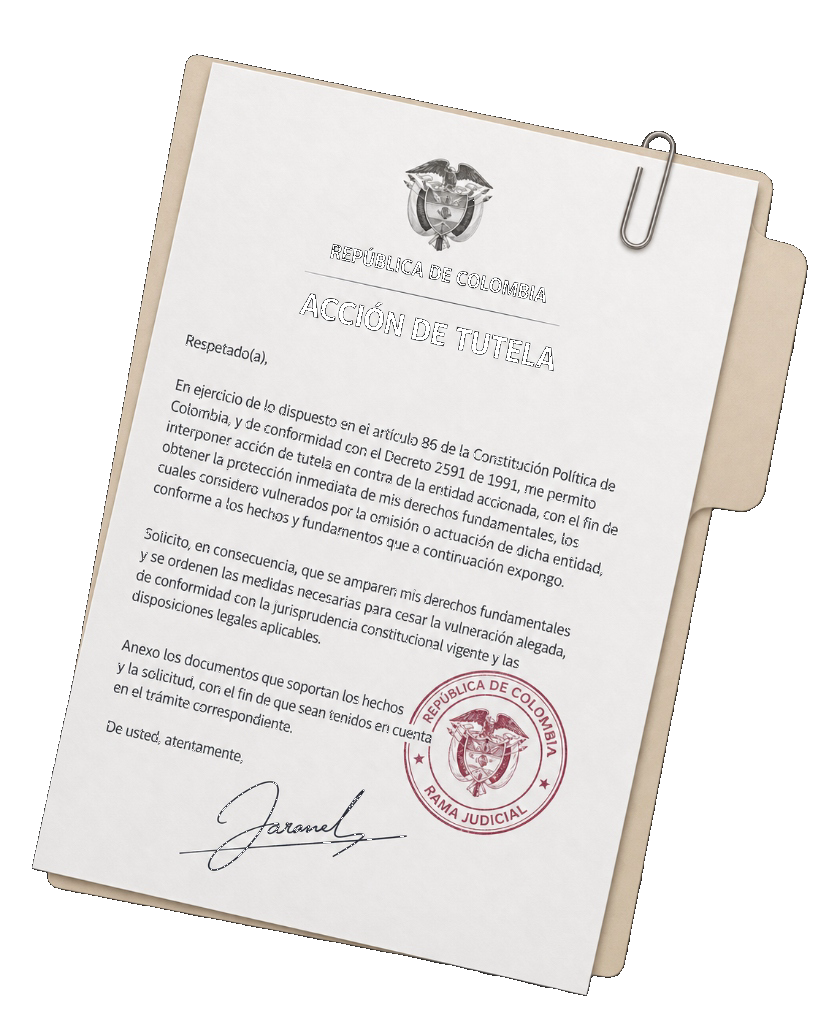
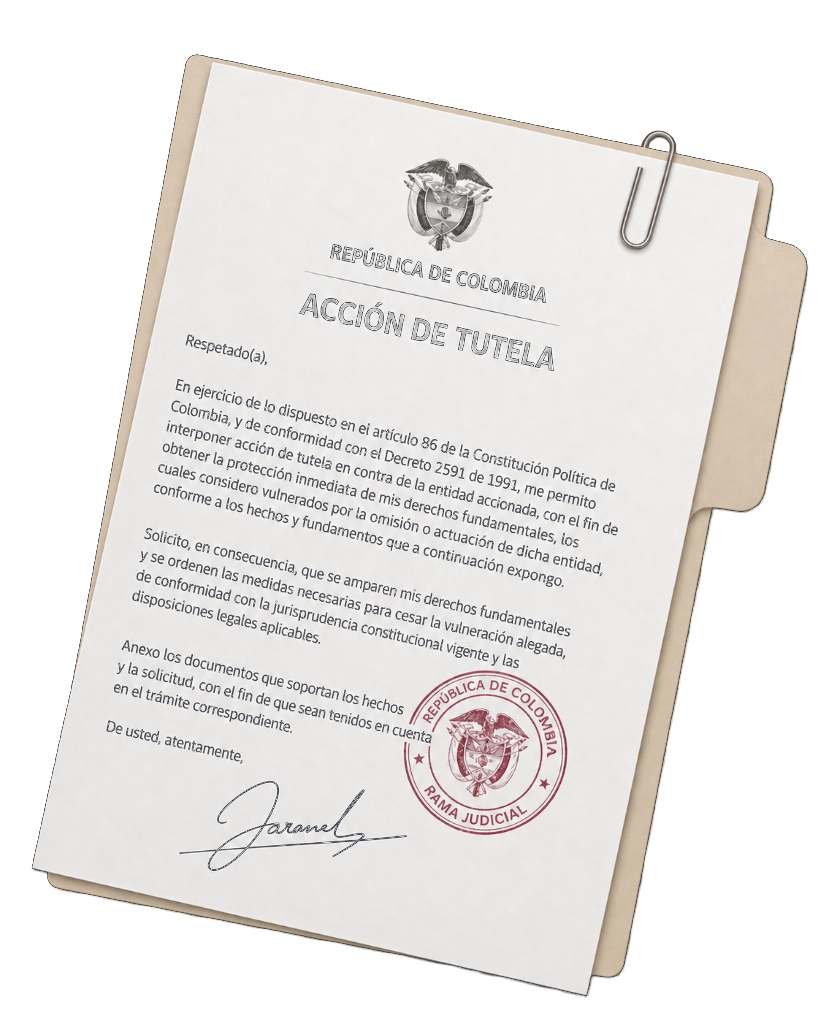
feat(ui): pristine smooth anti-aliased PNG hero rendering and sync main and master branches for Railway auto-deploy

Changed region(s): [[0.3663, 0.25, 0.6716, 0.375], [0.641, 0.2812, 0.6716, 0.3125], [0.3968, 0.2188, 0.4274, 0.25]]

diff --git a/app/globals.css b/app/globals.css
@@ -1,5 +1,5 @@
 :root{--ink:#2c2526;--muted:#736968;--purple:#6b2d3e;--purple-dark:#52222f;--lavender:#f1e8dc;--lavender-soft:#f7f2ea;--line:#e6ded0;--paper:#fbf8f3;--white:#fff;--peach:#f3ebe0;--danger:#9d374c;--radius:20px;--shadow:0 16px 50px rgba(44,37,38,0.07)}
-*{box-sizing:border-box}html{scroll-behavior:smooth;scroll-padding-top:28px}body{margin:0;background:var(--paper);color:var(--ink);font-family:Inter,ui-sans-serif,-apple-system,BlinkMacSystemFont,'Segoe UI',sans-serif;font-size:15px;line-height:1.6}button,input,select,textarea{font:inherit}button,a,input,select,textarea{-webkit-tap-highlight-color:transparent}button{cursor:pointer}button:disabled{cursor:not-allowed;opacity:.5}a{color:inherit;text-decoration:none}button{color:inherit}h1,h2,h3,h4,p{margin-top:0}h1,h2,h3{line-height:1.17;letter-spacing:-.035em}h1{font-size:48px}h2{font-size:34px}h3{font-size:21px}h4{margin-bottom:7px;letter-spacing:-.01em}p{color:var(--muted)}svg{flex-shrink:0;stroke-width:1.65}::selection{background:#f1d6dd}button:focus-visible,a:focus-visible,input:focus-visible,select:focus-visible,textarea:focus-visible,summary:focus-visible{outline:3px solid #6b2d3e;outline-offset:4px}button{transition:background .18s,transform .18s,box-shadow .18s}button:active:not(:disabled){transform:translateY(1px)}.wrap{width:min(1180px,calc(100% - 80px));margin-inline:auto}.button{display:inline-flex;align-items:center;justify-content:center;gap:11px;min-height:50px;padding:13px 25px;border:1px solid transparent;border-radius:25px;background:var(--purple);color:white;font-weight:600;font-size:14px;letter-spacing:.005em;box-shadow:0 4px 14px rgba(107,45,62,0.18)}.button:hover:not(:disabled){background:var(--purple-dark);box-shadow:0 7px 22px rgba(107,45,62,0.28)}.button.small{min-height:40px;padding:9px 18px;font-size:13px;border-radius:20px}.button.outline{background:transparent;border-color:#dcd1c0;color:var(--ink);box-shadow:none}.button.outline:hover:not(:disabled){background:var(--lavender);border-color:var(--line)}.button.light{background:white;color:var(--purple-dark)}.text-button,.quiet-link,.back-button{border:0;background:none;display:inline-flex;align-items:center;gap:8px;padding:0;color:var(--ink);font-size:13px;font-weight:600}.text-button:hover,.quiet-link:hover{text-decoration:underline}.icon-button{display:inline-flex;align-items:center;justify-content:center;width:36px;height:36px;padding:0;border:0;background:transparent;border-radius:9px}.icon-button:hover{background:var(--lavender)}.brand{font-size:28px;letter-spacing:-1.5px;font-weight:750;white-space:nowrap;color:var(--ink)}.brand>span:not(.brand-dot){font-weight:430}.brand-dot{color:var(--purple);font-weight:800}.public-header{height:104px;display:flex;align-items:center;justify-content:space-between}.public-header nav{display:flex;align-items:center;gap:35px;font-size:13px}.public-header nav a:hover{color:var(--purple)}.public-header nav .text-button{color:var(--ink);font-weight:400}.hero{display:grid;grid-template-columns:1fr 1.05fr;align-items:center;min-height:640px;gap:40px;padding-top:20px;padding-bottom:50px}.eyebrow{display:flex;align-items:center;gap:9px;font-size:12px;letter-spacing:.02em;color:var(--muted);margin-bottom:27px}.tiny-dot{display:inline-block;width:6px;height:6px;border-radius:50%;background:var(--purple);flex-shrink:0}.hero h1{font-size:clamp(46px,4.8vw,68px);font-weight:700;letter-spacing:-.045em;line-height:1.08;margin-bottom:25px;color:var(--ink)}.hero h1 em{font-family:Georgia,'Times New Roman',serif;font-weight:400;font-style:italic;color:var(--purple);letter-spacing:-.04em}.hero-description{font-size:17px;line-height:1.75;max-width:440px;color:var(--muted)}.hero-actions{display:flex;gap:25px;align-items:center;margin-top:31px}.quiet-link{color:var(--ink);font-size:13px;font-weight:600}.quiet-link span{font-size:16px;margin-left:4px}.hero-note{display:flex;gap:8px;align-items:center;font-size:11px;color:var(--muted);margin-top:26px}.hero-visual{position:relative;isolation:isolate;min-height:540px;width:100%;display:flex;align-items:center;justify-content:center;margin-top:10px}.courthouse-bg{position:absolute;right:-50px;top:-40px;width:580px;height:auto;opacity:.42;pointer-events:none;z-index:0}.hero-img{max-width:100%;height:auto;display:block}.layer-expediente{position:absolute;left:-20px;top:15px;width:370px;border-radius:22px;transform:rotate(-7.5deg);box-shadow:0 14px 40px rgba(60,45,35,0.12);z-index:1}.layer-tutela{position:absolute;right:-25px;top:25px;width:355px;border-radius:18px;transform:rotate(7.5deg);box-shadow:0 16px 45px rgba(50,40,30,0.11);z-index:2}.layer-tu-caso-wrapper{position:relative;width:380px;z-index:4;transform:rotate(-1.5deg);filter:drop-shadow(0 25px 50px rgba(50,30,40,0.16));animation:card-enter .75s both}.layer-tu-caso{width:100%;height:auto;border-radius:24px}.tu-caso-overlay{position:absolute;left:24px;right:24px;top:92px;bottom:24px;display:flex;flex-direction:column;pointer-events:none}.tu-caso-overlay h2{font-size:19px;line-height:1.25;font-weight:700;color:var(--ink);margin-bottom:4px}.tu-caso-overlay p{font-size:11px;color:var(--muted);margin-bottom:14px}.folder-underlay{position:absolute;left:-15px;top:20px;width:370px;height:445px;background:#eadecb;border:1px solid #dacbb6;border-radius:26px;transform:rotate(-8deg);box-shadow:0 14px 40px rgba(60,45,35,0.08);z-index:1;padding:24px}.folder-underlay .tab-top{position:absolute;top:-22px;left:65px;width:125px;height:24px;background:#eadecb;border-radius:14px 14px 0 0;border:1px solid #dacbb6;border-bottom:none}.folder-underlay .tab-right{position:absolute;right:-18px;top:140px;width:20px;height:110px;background:#eadecb;border-radius:0 14px 14px 0;border:1px solid #dacbb6;border-left:none}.folder-underlay .stamp-vertical{position:absolute;left:22px;top:75px;writing-mode:vertical-rl;transform:rotate(180deg);font-size:15px;font-weight:800;letter-spacing:.25em;color:#8a3748;border:2.5px solid #8a3748;padding:14px 5px;border-radius:4px;opacity:.88}.folder-underlay .stamp-handle-pos{position:absolute;left:-10px;bottom:135px;transform:rotate(-12deg);opacity:.9;filter:drop-shadow(0 4px 10px rgba(0,0,0,0.15))}.folder-underlay .scale-stamp-pos{position:absolute;left:40px;bottom:35px;opacity:.38;color:#6b2d3e}.folder-paperclip{position:absolute;left:135px;top:-14px;z-index:3;transform:rotate(-12deg);filter:drop-shadow(0 2px 4px rgba(0,0,0,0.15))}.tutela-sheet{position:absolute;right:-20px;top:30px;width:355px;height:435px;background:#ffffff;border:1px solid #e3d8ca;border-radius:18px;transform:rotate(8deg);box-shadow:0 16px 45px rgba(50,40,30,0.07);z-index:2;padding:26px 24px;display:flex;flex-direction:column}.tutela-paperclip{position:absolute;right:32px;top:-14px;z-index:3;transform:rotate(22deg);filter:drop-shadow(0 2px 4px rgba(0,0,0,0.15))}.tutela-header{text-align:center;border-bottom:1px solid #ede4d7;padding-bottom:10px;margin-bottom:10px}.tutela-escudo{width:26px;height:26px;margin:0 auto 4px;opacity:.85}.tutela-header small{display:block;font-size:8.5px;font-weight:800;letter-spacing:.15em;color:var(--ink)}.tutela-header b{display:block;font-size:13px;font-weight:800;letter-spacing:.05em;color:var(--ink);margin-top:2px}.tutela-body{font-size:8.5px;color:#7e7473;line-height:1.55;flex:1;overflow:hidden}.tutela-seal{position:absolute;right:25px;bottom:55px;width:80px;height:80px;border:2px dashed #8c3547;border-radius:50%;display:flex;flex-direction:column;align-items:center;justify-content:center;color:#8c3547;font-size:6.5px;font-weight:800;text-align:center;padding:4px;transform:rotate(-14deg);opacity:.85;background:rgba(255,255,255,0.85)}.bottom-paperclip{position:absolute;right:20px;bottom:-12px;z-index:3;transform:rotate(-45deg);filter:drop-shadow(0 2px 4px rgba(0,0,0,0.15))}.signature-line{border-top:1px solid #736968;width:98px;font-size:9.5px;font-family:Georgia,serif;font-style:italic;color:var(--ink);padding-top:2px;margin-top:auto}.dossier-card{background:white;width:375px;padding:24px;border-radius:24px;box-shadow:0 30px 75px rgba(50,30,40,0.13);border:1px solid #ebdcc9;transform:rotate(-1.5deg);position:relative;z-index:4;animation:card-enter .75s both}.card-tab{position:absolute;top:-23px;left:32px;background:#efe6d8;border:1px solid #ebdcc9;border-bottom:none;border-radius:12px 12px 0 0;padding:4px 20px;font-size:12px;font-weight:600;color:var(--purple)}.card-top-row{display:flex;align-items:center;justify-content:space-between;margin-bottom:14px}.card-folder-badge{width:42px;height:42px;border-radius:12px;background:#f3eae3;display:flex;align-items:center;justify-content:center;color:var(--purple);border:1px solid #e7dcce;margin-bottom:14px}.badge-progress{background:#efe7db;color:var(--ink);font-size:10px;font-weight:500;padding:4px 12px;border-radius:20px;border:1px solid #e2d6c4}.dossier-card .overline{font-size:9px;font-weight:700;letter-spacing:.12em;color:var(--purple);margin-bottom:6px;display:block}.dossier-card h2{font-size:21px;line-height:1.25;font-weight:700;color:var(--ink);margin-bottom:6px}.dossier-card>p{font-size:12px;color:var(--muted);margin-bottom:18px}.card-item-row{display:flex;align-items:center;gap:12px;background:#f9f5ee;border:1px solid #eee4d5;border-radius:14px;padding:12px 14px;margin-bottom:10px}.card-item-icon{width:38px;height:38px;border-radius:10px;background:white;display:flex;align-items:center;justify-content:center;color:var(--purple);border:1px solid #e7dcce;flex-shrink:0}.card-item-info{flex:1;min-width:0}.card-item-info b{display:block;font-size:12px;font-weight:700;color:var(--ink)}.card-item-info span{display:block;font-size:10px;color:var(--muted);margin-top:1px}.check-badge{width:22px;height:22px;border-radius:50%;background:#387250;color:white;display:flex;align-items:center;justify-content:center;flex-shrink:0}.row-right-icons{display:flex;align-items:center;gap:6px;margin-left:auto}.avatar-group{display:flex;align-items:center}.avatar-thumb{width:24px;height:24px;border-radius:50%;border:2px solid white;margin-left:-6px;object-fit:cover;background:#6b2d3e;color:white;display:inline-flex;align-items:center;justify-content:center;font-size:9px;font-weight:700}.avatar-thumb.two{background:#4a242e}.floating-pill{position:absolute;z-index:6;background:white;border:1px solid #e7dcce;border-radius:30px;padding:8px 16px;box-shadow:0 10px 25px rgba(50,35,40,0.08);display:flex;align-items:center;gap:8px;font-size:11px;font-weight:500;color:var(--ink);white-space:nowrap}.fp-top-left{left:-35px;top:65px;padding:9px 16px}.fp-top-left div{line-height:1.2}.fp-top-left b{display:block;font-size:11px;font-weight:700}.fp-top-left span{font-size:10px;color:var(--muted)}.fp-top-right{right:-15px;top:5px}.fp-bottom-left{left:-25px;bottom:55px}.fp-bottom-center{left:60px;bottom:-20px}.fp-bottom-right{right:-30px;bottom:20px}.examples{text-align:center;padding:35px 0 65px}.examples p{font-size:13px;margin-bottom:18px;color:var(--muted);font-weight:500}.examples>div{display:flex;justify-content:center;gap:12px;flex-wrap:wrap}.example-pill{display:inline-flex;gap:12px;align-items:center;padding:10px 20px;border:1px solid #e2d6c5;border-radius:30px;background:#f3ede3;font-size:12px;color:var(--ink);font-weight:500}.example-pill:hover,.example-pill.active{background:#efe4d4;border-color:var(--purple);color:var(--purple);font-weight:600}.examples small{font-size:11px;display:block;margin-top:20px;color:var(--muted)}.how-section{background:#f5efe4;padding:75px 0}.section-heading{display:flex;justify-content:space-between;align-items:center;gap:20px;margin-bottom:31px}.section-heading h2{margin-bottom:0;font-weight:530}.section-heading p{font-size:13px;margin:0;line-height:1.8}.steps-grid{display:grid;grid-template-columns:repeat(3,1fr);gap:20px}.step-card{background:#fff;padding:29px;border-radius:17px;border:1px solid #ebe5f0}.step-top{display:flex;align-items:center;justify-content:space-between;color:var(--purple);margin-bottom:31px}.step-top span{font-size:11px;letter-spacing:.04em;color:#b7a3c7}.step-card h3{font-size:19px;font-weight:550;margin-bottom:14px}.step-card p{font-size:12px;line-height:1.9;margin-bottom:0}.privacy-section{display:grid;grid-template-columns:1fr 1fr;gap:85px;align-items:center;padding:100px 70px}.privacy-section h2{font-size:39px;font-weight:520}.privacy-section p{font-size:13px;max-width:400px}.privacy-art{height:286px;border:1px solid #e7deed;border-radius:50%;background:radial-gradient(ellipse,#eee5f5 0%,#f9f5fc 60%,#fcfbf9 70%);display:flex;align-items:center;justify-content:center;position:relative;color:var(--purple)}.privacy-art>img{width:78%;height:auto;border-radius:20px;box-shadow:0 14px 45px #6b4b8710;transform:rotate(-5deg)}.privacy-lock{position:absolute;left:25px;top:24px;width:49px;height:49px;border-radius:15px;background:#faf7fc;border:1px solid #ddcce9;display:flex;align-items:center;justify-content:center;color:var(--purple);box-shadow:0 10px 25px #6b4b8714}.privacy-art>svg{box-sizing:content-box;padding:29px;border:1px solid #ddcce9;border-radius:24px;background:#faf7fc;box-shadow:0 14px 45px #6b4b8710;transform:rotate(-8deg)}.privacy-art .tag{position:absolute;bottom:35px;right:0;font-size:11px;padding:8px 15px;transform:rotate(3deg)}.check-list{padding:0;list-style:none;margin:23px 0 0}.check-list li{display:flex;align-items:center;gap:9px;font-size:12px;color:var(--muted);margin-bottom:12px}.check-list svg{color:var(--purple)}.lawyer-banner{padding:39px 45px;background:#f2e9dc;border:1px solid #e4d7c6;border-radius:21px;display:flex;justify-content:space-between;align-items:center;gap:35px}.lawyer-banner h2{font-size:29px;font-weight:520;margin-bottom:11px}.lawyer-banner p{font-size:12px;margin:0;color:var(--muted)}.lawyer-banner .overline{font-size:8px;color:var(--purple)}.lawyer-banner .button{white-space:nowrap}.faq{display:grid;grid-template-columns:.85fr 1.15fr;gap:80px;padding-block:100px}.faq h2{font-size:32px;font-weight:500}.faq details{border-bottom:1px solid var(--line);padding:20px 0}.faq details:first-child{padding-top:0}.faq summary{list-style:none;font-size:13px;font-weight:550;cursor:pointer;display:flex;align-items:center;justify-content:space-between;gap:20px}.faq summary::-webkit-details-marker{display:none}.faq details p{font-size:12px;margin:15px 30px 0 0;line-height:1.85}.faq details[open] summary svg{transform:rotate(45deg)}.faq summary svg{transition:transform .2s;color:var(--purple)}.final-cta{text-align:center;padding:15px 0 85px}.final-cta>svg{color:var(--purple);margin-bottom:15px}.final-cta h2{font-size:31px;font-weight:500;margin-bottom:23px}footer{padding:28px 0;display:flex;align-items:center;gap:35px;border-top:1px solid var(--line)}footer .brand{font-size:23px}footer>span{font-size:10px;color:var(--muted)}footer>div{margin-left:auto;display:flex;gap:19px}footer button{background:none;border:0;padding:0;font-size:10px;color:var(--muted)}
+*{box-sizing:border-box}html{scroll-behavior:smooth;scroll-padding-top:28px}body{margin:0;background:var(--paper);color:var(--ink);font-family:Inter,ui-sans-serif,-apple-system,BlinkMacSystemFont,'Segoe UI',sans-serif;font-size:15px;line-height:1.6}button,input,select,textarea{font:inherit}button,a,input,select,textarea{-webkit-tap-highlight-color:transparent}button{cursor:pointer}button:disabled{cursor:not-allowed;opacity:.5}a{color:inherit;text-decoration:none}button{color:inherit}h1,h2,h3,h4,p{margin-top:0}h1,h2,h3{line-height:1.17;letter-spacing:-.035em}h1{font-size:48px}h2{font-size:34px}h3{font-size:21px}h4{margin-bottom:7px;letter-spacing:-.01em}p{color:var(--muted)}svg{flex-shrink:0;stroke-width:1.65}::selection{background:#f1d6dd}button:focus-visible,a:focus-visible,input:focus-visible,select:focus-visible,textarea:focus-visible,summary:focus-visible{outline:3px solid #6b2d3e;outline-offset:4px}button{transition:background .18s,transform .18s,box-shadow .18s}button:active:not(:disabled){transform:translateY(1px)}.wrap{width:min(1180px,calc(100% - 80px));margin-inline:auto}.button{display:inline-flex;align-items:center;justify-content:center;gap:11px;min-height:50px;padding:13px 25px;border:1px solid transparent;border-radius:25px;background:var(--purple);color:white;font-weight:600;font-size:14px;letter-spacing:.005em;box-shadow:0 4px 14px rgba(107,45,62,0.18)}.button:hover:not(:disabled){background:var(--purple-dark);box-shadow:0 7px 22px rgba(107,45,62,0.28)}.button.small{min-height:40px;padding:9px 18px;font-size:13px;border-radius:20px}.button.outline{background:transparent;border-color:#dcd1c0;color:var(--ink);box-shadow:none}.button.outline:hover:not(:disabled){background:var(--lavender);border-color:var(--line)}.button.light{background:white;color:var(--purple-dark)}.text-button,.quiet-link,.back-button{border:0;background:none;display:inline-flex;align-items:center;gap:8px;padding:0;color:var(--ink);font-size:13px;font-weight:600}.text-button:hover,.quiet-link:hover{text-decoration:underline}.icon-button{display:inline-flex;align-items:center;justify-content:center;width:36px;height:36px;padding:0;border:0;background:transparent;border-radius:9px}.icon-button:hover{background:var(--lavender)}.brand{font-size:28px;letter-spacing:-1.5px;font-weight:750;white-space:nowrap;color:var(--ink)}.brand>span:not(.brand-dot){font-weight:430}.brand-dot{color:var(--purple);font-weight:800}.public-header{height:104px;display:flex;align-items:center;justify-content:space-between}.public-header nav{display:flex;align-items:center;gap:35px;font-size:13px}.public-header nav a:hover{color:var(--purple)}.public-header nav .text-button{color:var(--ink);font-weight:400}.hero{display:grid;grid-template-columns:1fr 1.05fr;align-items:center;min-height:640px;gap:40px;padding-top:20px;padding-bottom:50px}.eyebrow{display:flex;align-items:center;gap:9px;font-size:12px;letter-spacing:.02em;color:var(--muted);margin-bottom:27px}.tiny-dot{display:inline-block;width:6px;height:6px;border-radius:50%;background:var(--purple);flex-shrink:0}.hero h1{font-size:clamp(46px,4.8vw,68px);font-weight:700;letter-spacing:-.045em;line-height:1.08;margin-bottom:25px;color:var(--ink)}.hero h1 em{font-family:Georgia,'Times New Roman',serif;font-weight:400;font-style:italic;color:var(--purple);letter-spacing:-.04em}.hero-description{font-size:17px;line-height:1.75;max-width:440px;color:var(--muted)}.hero-actions{display:flex;gap:25px;align-items:center;margin-top:31px}.quiet-link{color:var(--ink);font-size:13px;font-weight:600}.quiet-link span{font-size:16px;margin-left:4px}.hero-note{display:flex;gap:8px;align-items:center;font-size:11px;color:var(--muted);margin-top:26px}.hero-visual{position:relative;isolation:isolate;min-height:540px;width:100%;display:flex;align-items:center;justify-content:center;margin-top:10px}.courthouse-bg{position:absolute;right:-50px;top:-40px;width:580px;height:auto;opacity:.42;pointer-events:none;z-index:0}.hero-img{max-width:100%;height:auto;display:block}.layer-expediente{position:absolute;left:-35px;top:-15px;width:385px;z-index:1;filter:drop-shadow(0 14px 40px rgba(60,45,35,0.12))}.layer-tutela{position:absolute;right:-35px;top:-15px;width:380px;z-index:2;filter:drop-shadow(0 16px 45px rgba(50,40,30,0.11))}.layer-tu-caso-wrapper{position:relative;width:375px;z-index:4;transform:rotate(-1.5deg);filter:drop-shadow(0 25px 50px rgba(50,30,40,0.16));animation:card-enter .75s both}.layer-tu-caso{width:100%;height:auto;display:block}.tu-caso-overlay{position:absolute;left:26px;right:26px;top:110px;bottom:35px;display:flex;flex-direction:column;pointer-events:none}.tu-caso-overlay h2{font-size:18px;line-height:1.25;font-weight:700;color:var(--ink);margin-bottom:3px}.tu-caso-overlay p{font-size:11px;color:var(--muted);margin-bottom:12px}.folder-underlay{position:absolute;left:-15px;top:20px;width:370px;height:445px;background:#eadecb;border:1px solid #dacbb6;border-radius:26px;transform:rotate(-8deg);box-shadow:0 14px 40px rgba(60,45,35,0.08);z-index:1;padding:24px}.folder-underlay .tab-top{position:absolute;top:-22px;left:65px;width:125px;height:24px;background:#eadecb;border-radius:14px 14px 0 0;border:1px solid #dacbb6;border-bottom:none}.folder-underlay .tab-right{position:absolute;right:-18px;top:140px;width:20px;height:110px;background:#eadecb;border-radius:0 14px 14px 0;border:1px solid #dacbb6;border-left:none}.folder-underlay .stamp-vertical{position:absolute;left:22px;top:75px;writing-mode:vertical-rl;transform:rotate(180deg);font-size:15px;font-weight:800;letter-spacing:.25em;color:#8a3748;border:2.5px solid #8a3748;padding:14px 5px;border-radius:4px;opacity:.88}.folder-underlay .stamp-handle-pos{position:absolute;left:-10px;bottom:135px;transform:rotate(-12deg);opacity:.9;filter:drop-shadow(0 4px 10px rgba(0,0,0,0.15))}.folder-underlay .scale-stamp-pos{position:absolute;left:40px;bottom:35px;opacity:.38;color:#6b2d3e}.folder-paperclip{position:absolute;left:135px;top:-14px;z-index:3;transform:rotate(-12deg);filter:drop-shadow(0 2px 4px rgba(0,0,0,0.15))}.tutela-sheet{position:absolute;right:-20px;top:30px;width:355px;height:435px;background:#ffffff;border:1px solid #e3d8ca;border-radius:18px;transform:rotate(8deg);box-shadow:0 16px 45px rgba(50,40,30,0.07);z-index:2;padding:26px 24px;display:flex;flex-direction:column}.tutela-paperclip{position:absolute;right:32px;top:-14px;z-index:3;transform:rotate(22deg);filter:drop-shadow(0 2px 4px rgba(0,0,0,0.15))}.tutela-header{text-align:center;border-bottom:1px solid #ede4d7;padding-bottom:10px;margin-bottom:10px}.tutela-escudo{width:26px;height:26px;margin:0 auto 4px;opacity:.85}.tutela-header small{display:block;font-size:8.5px;font-weight:800;letter-spacing:.15em;color:var(--ink)}.tutela-header b{display:block;font-size:13px;font-weight:800;letter-spacing:.05em;color:var(--ink);margin-top:2px}.tutela-body{font-size:8.5px;color:#7e7473;line-height:1.55;flex:1;overflow:hidden}.tutela-seal{position:absolute;right:25px;bottom:55px;width:80px;height:80px;border:2px dashed #8c3547;border-radius:50%;display:flex;flex-direction:column;align-items:center;justify-content:center;color:#8c3547;font-size:6.5px;font-weight:800;text-align:center;padding:4px;transform:rotate(-14deg);opacity:.85;background:rgba(255,255,255,0.85)}.bottom-paperclip{position:absolute;right:20px;bottom:-12px;z-index:3;transform:rotate(-45deg);filter:drop-shadow(0 2px 4px rgba(0,0,0,0.15))}.signature-line{border-top:1px solid #736968;width:98px;font-size:9.5px;font-family:Georgia,serif;font-style:italic;color:var(--ink);padding-top:2px;margin-top:auto}.dossier-card{background:white;width:375px;padding:24px;border-radius:24px;box-shadow:0 30px 75px rgba(50,30,40,0.13);border:1px solid #ebdcc9;transform:rotate(-1.5deg);position:relative;z-index:4;animation:card-enter .75s both}.card-tab{position:absolute;top:-23px;left:32px;background:#efe6d8;border:1px solid #ebdcc9;border-bottom:none;border-radius:12px 12px 0 0;padding:4px 20px;font-size:12px;font-weight:600;color:var(--purple)}.card-top-row{display:flex;align-items:center;justify-content:space-between;margin-bottom:14px}.card-folder-badge{width:42px;height:42px;border-radius:12px;background:#f3eae3;display:flex;align-items:center;justify-content:center;color:var(--purple);border:1px solid #e7dcce;margin-bottom:14px}.badge-progress{background:#efe7db;color:var(--ink);font-size:10px;font-weight:500;padding:4px 12px;border-radius:20px;border:1px solid #e2d6c4}.dossier-card .overline{font-size:9px;font-weight:700;letter-spacing:.12em;color:var(--purple);margin-bottom:6px;display:block}.dossier-card h2{font-size:21px;line-height:1.25;font-weight:700;color:var(--ink);margin-bottom:6px}.dossier-card>p{font-size:12px;color:var(--muted);margin-bottom:18px}.card-item-row{display:flex;align-items:center;gap:12px;background:#f9f5ee;border:1px solid #eee4d5;border-radius:14px;padding:12px 14px;margin-bottom:10px}.card-item-icon{width:38px;height:38px;border-radius:10px;background:white;display:flex;align-items:center;justify-content:center;color:var(--purple);border:1px solid #e7dcce;flex-shrink:0}.card-item-info{flex:1;min-width:0}.card-item-info b{display:block;font-size:12px;font-weight:700;color:var(--ink)}.card-item-info span{display:block;font-size:10px;color:var(--muted);margin-top:1px}.check-badge{width:22px;height:22px;border-radius:50%;background:#387250;color:white;display:flex;align-items:center;justify-content:center;flex-shrink:0}.row-right-icons{display:flex;align-items:center;gap:6px;margin-left:auto}.avatar-group{display:flex;align-items:center}.avatar-thumb{width:24px;height:24px;border-radius:50%;border:2px solid white;margin-left:-6px;object-fit:cover;background:#6b2d3e;color:white;display:inline-flex;align-items:center;justify-content:center;font-size:9px;font-weight:700}.avatar-thumb.two{background:#4a242e}.floating-pill{position:absolute;z-index:6;background:white;border:1px solid #e7dcce;border-radius:30px;padding:8px 16px;box-shadow:0 10px 25px rgba(50,35,40,0.08);display:flex;align-items:center;gap:8px;font-size:11px;font-weight:500;color:var(--ink);white-space:nowrap}.fp-top-left{left:-35px;top:65px;padding:9px 16px}.fp-top-left div{line-height:1.2}.fp-top-left b{display:block;font-size:11px;font-weight:700}.fp-top-left span{font-size:10px;color:var(--muted)}.fp-top-right{right:-15px;top:5px}.fp-bottom-left{left:-25px;bottom:55px}.fp-bottom-center{left:60px;bottom:-20px}.fp-bottom-right{right:-30px;bottom:20px}.examples{text-align:center;padding:35px 0 65px}.examples p{font-size:13px;margin-bottom:18px;color:var(--muted);font-weight:500}.examples>div{display:flex;justify-content:center;gap:12px;flex-wrap:wrap}.example-pill{display:inline-flex;gap:12px;align-items:center;padding:10px 20px;border:1px solid #e2d6c5;border-radius:30px;background:#f3ede3;font-size:12px;color:var(--ink);font-weight:500}.example-pill:hover,.example-pill.active{background:#efe4d4;border-color:var(--purple);color:var(--purple);font-weight:600}.examples small{font-size:11px;display:block;margin-top:20px;color:var(--muted)}.how-section{background:#f5efe4;padding:75px 0}.section-heading{display:flex;justify-content:space-between;align-items:center;gap:20px;margin-bottom:31px}.section-heading h2{margin-bottom:0;font-weight:530}.section-heading p{font-size:13px;margin:0;line-height:1.8}.steps-grid{display:grid;grid-template-columns:repeat(3,1fr);gap:20px}.step-card{background:#fff;padding:29px;border-radius:17px;border:1px solid #ebe5f0}.step-top{display:flex;align-items:center;justify-content:space-between;color:var(--purple);margin-bottom:31px}.step-top span{font-size:11px;letter-spacing:.04em;color:#b7a3c7}.step-card h3{font-size:19px;font-weight:550;margin-bottom:14px}.step-card p{font-size:12px;line-height:1.9;margin-bottom:0}.privacy-section{display:grid;grid-template-columns:1fr 1fr;gap:85px;align-items:center;padding:100px 70px}.privacy-section h2{font-size:39px;font-weight:520}.privacy-section p{font-size:13px;max-width:400px}.privacy-art{height:286px;border:1px solid #e7deed;border-radius:50%;background:radial-gradient(ellipse,#eee5f5 0%,#f9f5fc 60%,#fcfbf9 70%);display:flex;align-items:center;justify-content:center;position:relative;color:var(--purple)}.privacy-art>img{width:78%;height:auto;border-radius:20px;box-shadow:0 14px 45px #6b4b8710;transform:rotate(-5deg)}.privacy-lock{position:absolute;left:25px;top:24px;width:49px;height:49px;border-radius:15px;background:#faf7fc;border:1px solid #ddcce9;display:flex;align-items:center;justify-content:center;color:var(--purple);box-shadow:0 10px 25px #6b4b8714}.privacy-art>svg{box-sizing:content-box;padding:29px;border:1px solid #ddcce9;border-radius:24px;background:#faf7fc;box-shadow:0 14px 45px #6b4b8710;transform:rotate(-8deg)}.privacy-art .tag{position:absolute;bottom:35px;right:0;font-size:11px;padding:8px 15px;transform:rotate(3deg)}.check-list{padding:0;list-style:none;margin:23px 0 0}.check-list li{display:flex;align-items:center;gap:9px;font-size:12px;color:var(--muted);margin-bottom:12px}.check-list svg{color:var(--purple)}.lawyer-banner{padding:39px 45px;background:#f2e9dc;border:1px solid #e4d7c6;border-radius:21px;display:flex;justify-content:space-between;align-items:center;gap:35px}.lawyer-banner h2{font-size:29px;font-weight:520;margin-bottom:11px}.lawyer-banner p{font-size:12px;margin:0;color:var(--muted)}.lawyer-banner .overline{font-size:8px;color:var(--purple)}.lawyer-banner .button{white-space:nowrap}.faq{display:grid;grid-template-columns:.85fr 1.15fr;gap:80px;padding-block:100px}.faq h2{font-size:32px;font-weight:500}.faq details{border-bottom:1px solid var(--line);padding:20px 0}.faq details:first-child{padding-top:0}.faq summary{list-style:none;font-size:13px;font-weight:550;cursor:pointer;display:flex;align-items:center;justify-content:space-between;gap:20px}.faq summary::-webkit-details-marker{display:none}.faq details p{font-size:12px;margin:15px 30px 0 0;line-height:1.85}.faq details[open] summary svg{transform:rotate(45deg)}.faq summary svg{transition:transform .2s;color:var(--purple)}.final-cta{text-align:center;padding:15px 0 85px}.final-cta>svg{color:var(--purple);margin-bottom:15px}.final-cta h2{font-size:31px;font-weight:500;margin-bottom:23px}footer{padding:28px 0;display:flex;align-items:center;gap:35px;border-top:1px solid var(--line)}footer .brand{font-size:23px}footer>span{font-size:10px;color:var(--muted)}footer>div{margin-left:auto;display:flex;gap:19px}footer button{background:none;border:0;padding:0;font-size:10px;color:var(--muted)}
 /* Shared forms and feedback */
 .muted{color:var(--muted)}.microcopy{font-size:11px;line-height:1.7;color:var(--muted)}.preserve{white-space:pre-wrap;overflow-wrap:anywhere}.modal{border:1px solid var(--line);border-radius:23px;box-shadow:0 30px 100px #20132935;background:var(--paper);color:var(--ink);padding:29px;width:min(600px,calc(100% - 32px));max-height:90dvh;overflow:auto;overscroll-behavior:contain}.modal::backdrop{background:#29203766;backdrop-filter:blur(4px)}.modal-head{display:flex;align-items:flex-start;justify-content:space-between;gap:20px;margin-bottom:15px}.modal-head h2{font-size:27px;font-weight:550;max-width:430px;margin:0}.modal>p{font-size:13px}.form-stack{display:flex;flex-direction:column;gap:18px;margin-top:20px}.form-stack>.button{align-self:flex-start}.field{display:flex;flex-direction:column;gap:7px;font-size:12px;font-weight:550;color:var(--ink)}.field small{font-size:10px;line-height:1.6;font-weight:400;color:var(--muted)}input:not([type=checkbox]):not([type=file]),select,textarea{border:1px solid #dfd7e7;background:white;color:var(--ink);border-radius:10px;padding:11px 13px;width:100%;font-size:13px;min-width:0}textarea{resize:vertical;line-height:1.7}input::placeholder,textarea::placeholder{color:#a49bab;font-weight:400}input[type=checkbox]{accent-color:var(--purple);width:17px;height:17px;margin:2px 0 0;flex-shrink:0}select{min-height:43px}.form-grid{display:grid;grid-template-columns:1fr 1fr;gap:15px}.checkbox-line{display:flex;gap:11px;font-size:12px;align-items:flex-start;color:var(--muted);line-height:1.7}.specialties{border:1px solid var(--line);border-radius:12px;padding:14px;display:flex;gap:10px 18px;flex-wrap:wrap}.specialties legend{font-size:12px;font-weight:550}.specialties label{display:flex;gap:6px;font-size:12px}.notice-panel{padding:17px 20px;border:1px solid #dfd3e9;background:var(--lavender-soft);border-radius:13px;margin:16px 0;color:var(--purple-dark);font-size:12px;line-height:1.8}.notice-panel p{margin:8px 0;color:inherit;white-space:pre-wrap;overflow-wrap:anywhere}.notice-panel.error{border-color:#e8cbd3;color:var(--danger)}.notice-panel .text-button{margin-left:12px}.auth-links{display:flex;justify-content:space-between;gap:20px;margin-top:22px}.oauth-button{width:100%;display:flex;align-items:center;justify-content:center;gap:10px;min-height:46px;border:1px solid #d8c9e3;border-radius:11px;background:white;color:var(--ink);font-size:13px;font-weight:600}.oauth-button:hover:not(:disabled){background:var(--lavender);border-color:#c4add6}.auth-divider{display:flex;align-items:center;gap:12px;margin:17px 0 2px;color:var(--muted);font-size:10px}.auth-divider:before,.auth-divider:after{content:"";height:1px;background:var(--line);flex:1}.auth-divider span{white-space:nowrap}.auth-links button{border:0;background:none;padding:0;font-size:11px;color:var(--purple)}.info-paragraph{line-height:1.85;font-size:13px}.toast{position:fixed;z-index:1000;bottom:25px;left:50%;transform:translateX(-50%);background:#fff;border:1px solid #d7c6e2;border-radius:14px;box-shadow:0 8px 50px #30243d22;padding:15px 17px;display:flex;align-items:center;gap:12px;width:max-content;max-width:min(650px,calc(100% - 32px));font-size:12px;color:var(--purple-dark)}.toast.error{color:var(--danger);border-color:#e9c8d1}.toast button{background:none;border:0;display:flex;color:inherit;padding:4px}.toast span{overflow-wrap:anywhere;max-height:180px;overflow:auto}.danger{color:var(--danger)!important}.danger-bg{background:var(--danger)}
 /* Workspace */

diff --git a/scripts/preview.ts b/scripts/preview.ts
@@ -5,7 +5,7 @@ import { readFile, writeFile } from 'node:fs/promises';
 import Landing from '../components/Landing';
 const css=await readFile(new URL('../app/globals.css',import.meta.url),'utf8');
 const markup=renderToStaticMarkup(React.createElement(Landing,{onStart:()=>{},onLawyer:()=>{},onLogin:()=>{},onInfo:()=>{}}));
-const script=`const examples={'Una tutela':'Revisar y presentar mi tutela','Un asunto laboral':'Revisar una reclamación laboral','Una reclamación':'Dar el siguiente paso con mi reclamación','Un contrato':'Revisar y ajustar un contrato'};document.querySelectorAll('.example-pill').forEach(button=>button.addEventListener('click',()=>{document.querySelectorAll('.example-pill').forEach(b=>{b.classList.remove('active');b.setAttribute('aria-pressed','false')});button.classList.add('active');button.setAttribute('aria-pressed','true');document.querySelector('.dossier-card h2').textContent=examples[button.textContent]}));document.querySelectorAll('button:not(.example-pill)').forEach(button=>button.addEventListener('click',()=>document.getElementById('preview-info').showModal()));document.getElementById('preview-close').onclick=()=>document.getElementById('preview-info').close();`;
+const script=`const examples={'Una tutela':'Revisar y presentar mi tutela','Un asunto laboral':'Revisar una reclamación laboral','Una reclamación':'Dar el siguiente paso con mi reclamación','Un contrato':'Revisar y ajustar un contrato'};document.querySelectorAll('.example-pill').forEach(button=>button.addEventListener('click',()=>{document.querySelectorAll('.example-pill').forEach(b=>{b.classList.remove('active');b.setAttribute('aria-pressed','false')});button.classList.add('active');button.setAttribute('aria-pressed','true');const title=document.querySelector('.dossier-card h2,.tu-caso-overlay h2');if(title)title.textContent=examples[button.textContent]}));document.querySelectorAll('button:not(.example-pill)').forEach(button=>button.addEventListener('click',()=>document.getElementById('preview-info').showModal()));document.getElementById('preview-close').onclick=()=>document.getElementById('preview-info').close();`;
 const html='<!doctype html><html lang="es"><head><meta charset="utf-8"><meta name="viewport" content="width=device-width,initial-scale=1"><title>LexMarket · Vista de diseño</title><style>'+css+'</style></head><body>'+markup+'<dialog id="preview-info" class="modal"><h2>Una primera mirada a LexMarket</h2><p>Esta es la vista de diseño. Las cuentas, archivos y propuestas funcionan en la aplicación del repositorio después de conectar Supabase y desplegarla.</p><a class="button" href="https://github.com/Amadeusguitarte/lexmarket">Ver repositorio</a> <button id="preview-close" class="button outline">Volver</button></dialog><script>'+script+'</script></body></html>';
 await writeFile(new URL('../docs/preview.html',import.meta.url),html);
 console.log('docs/preview.html generated from the real landing component');
